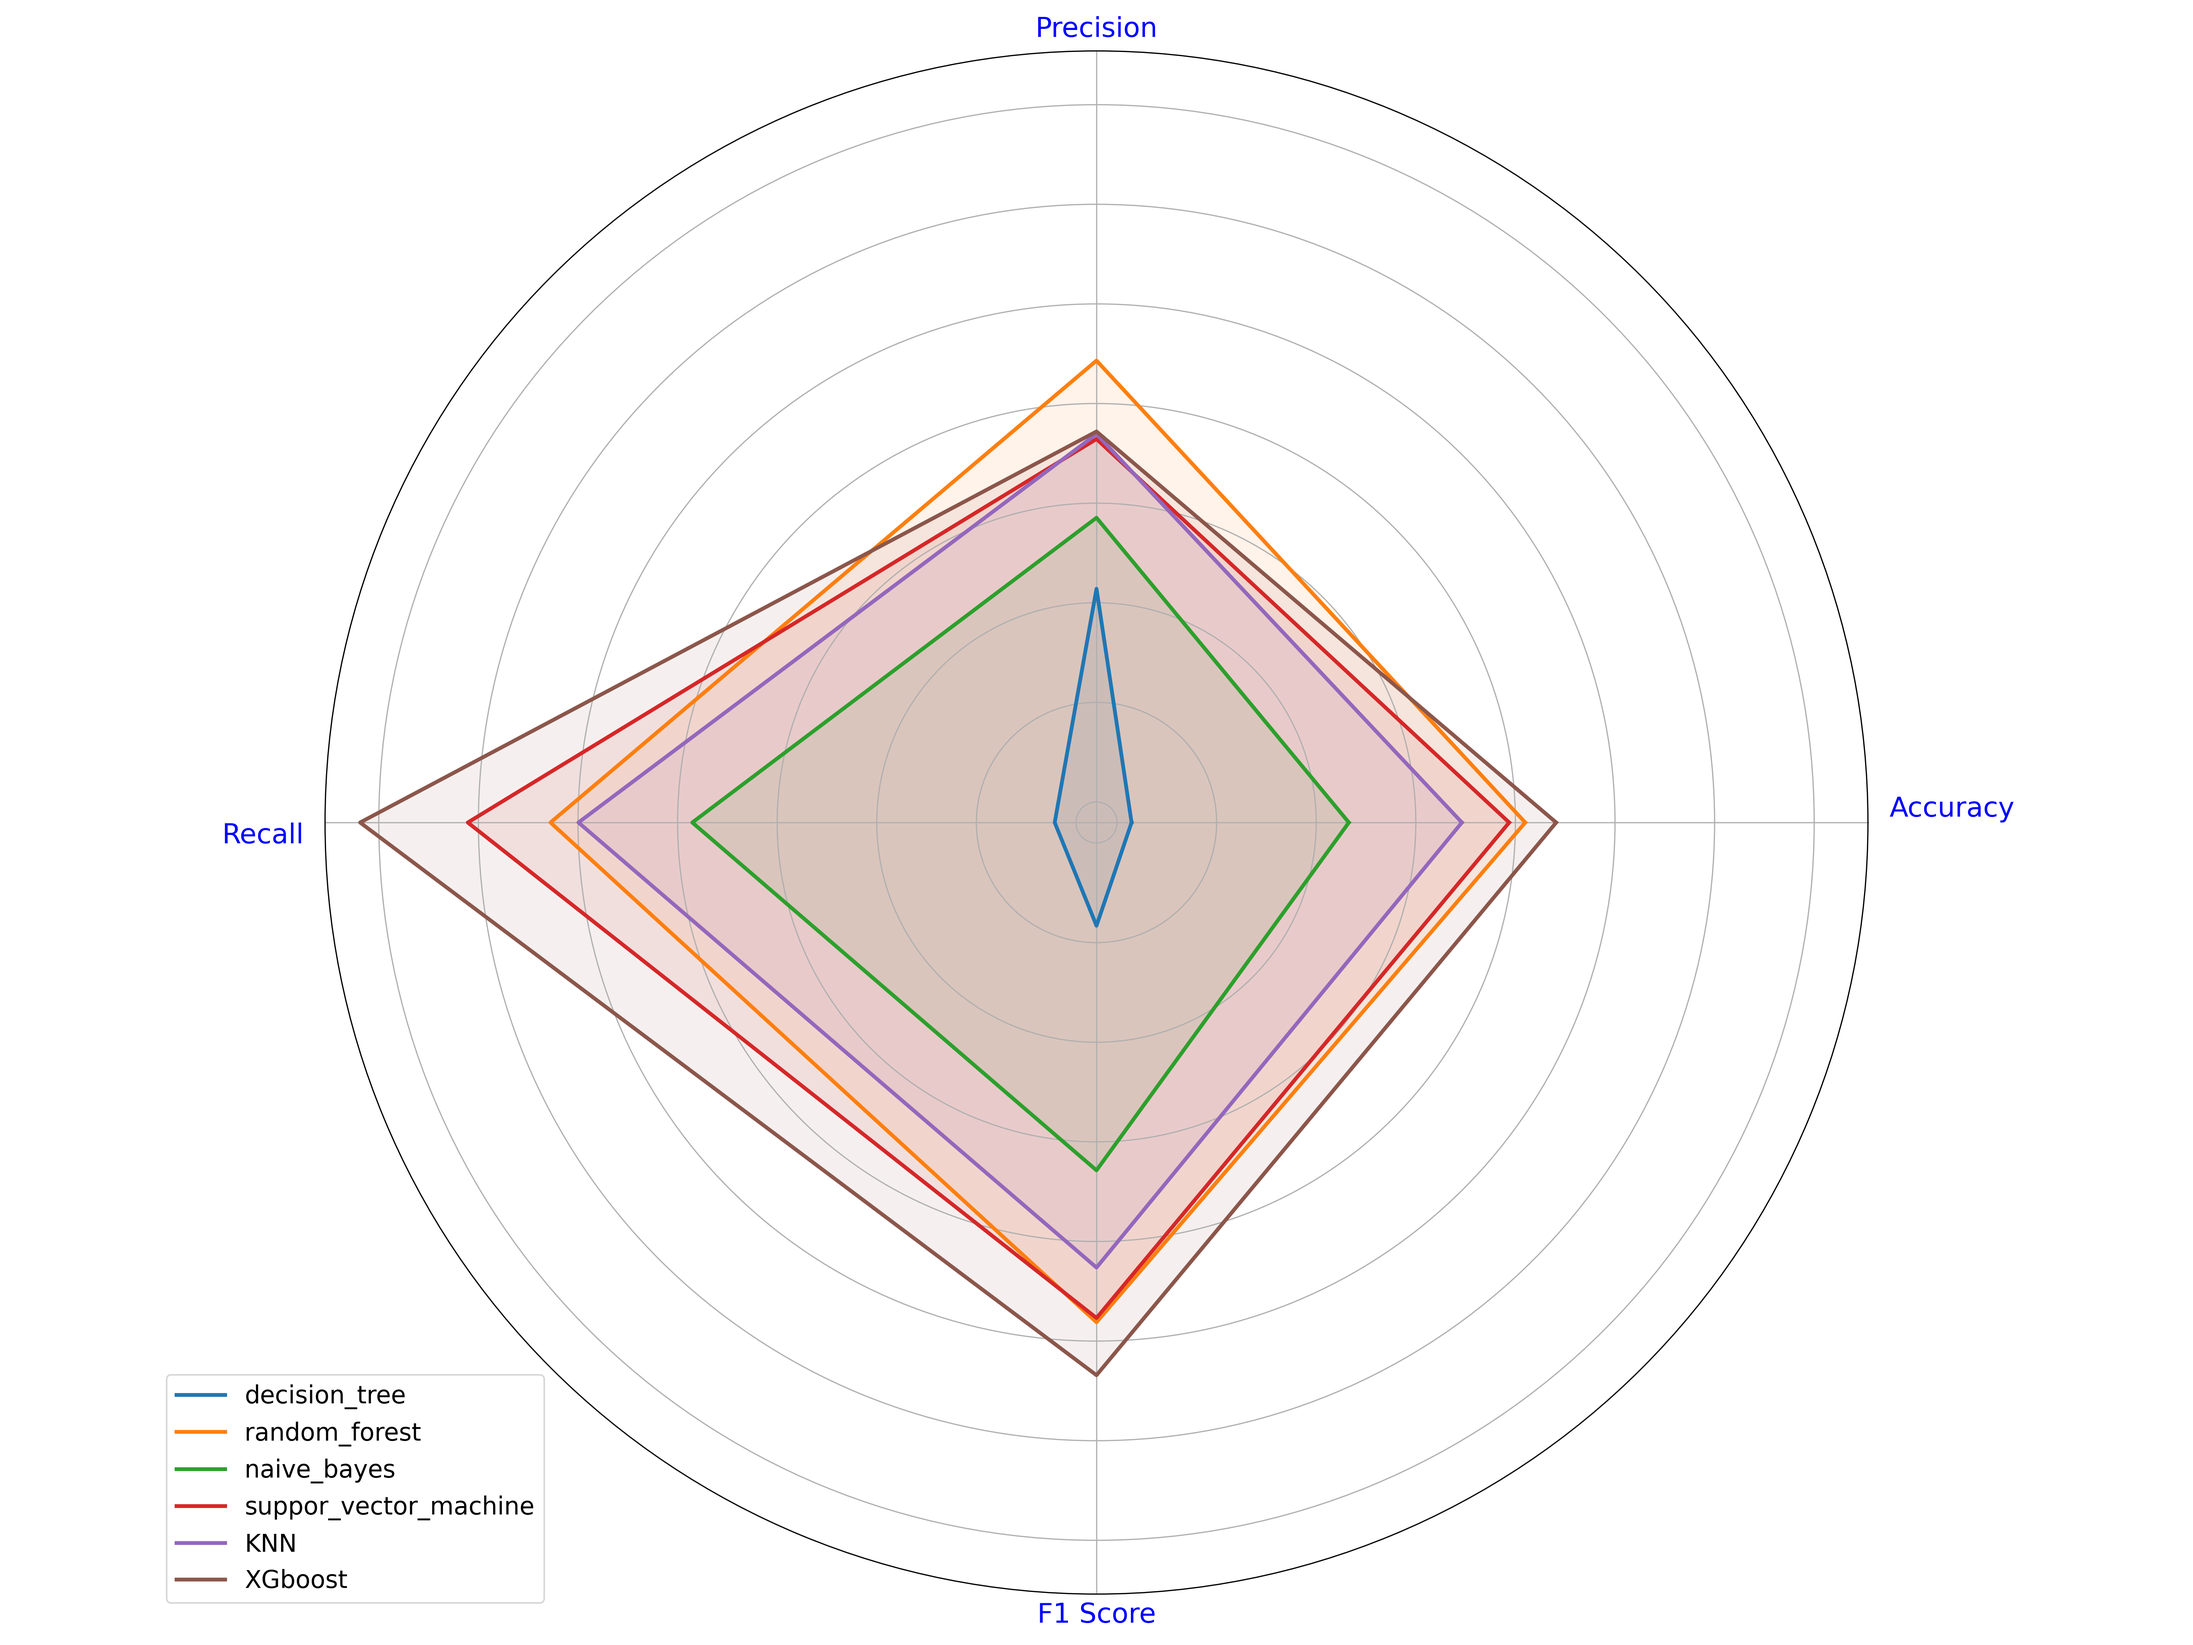
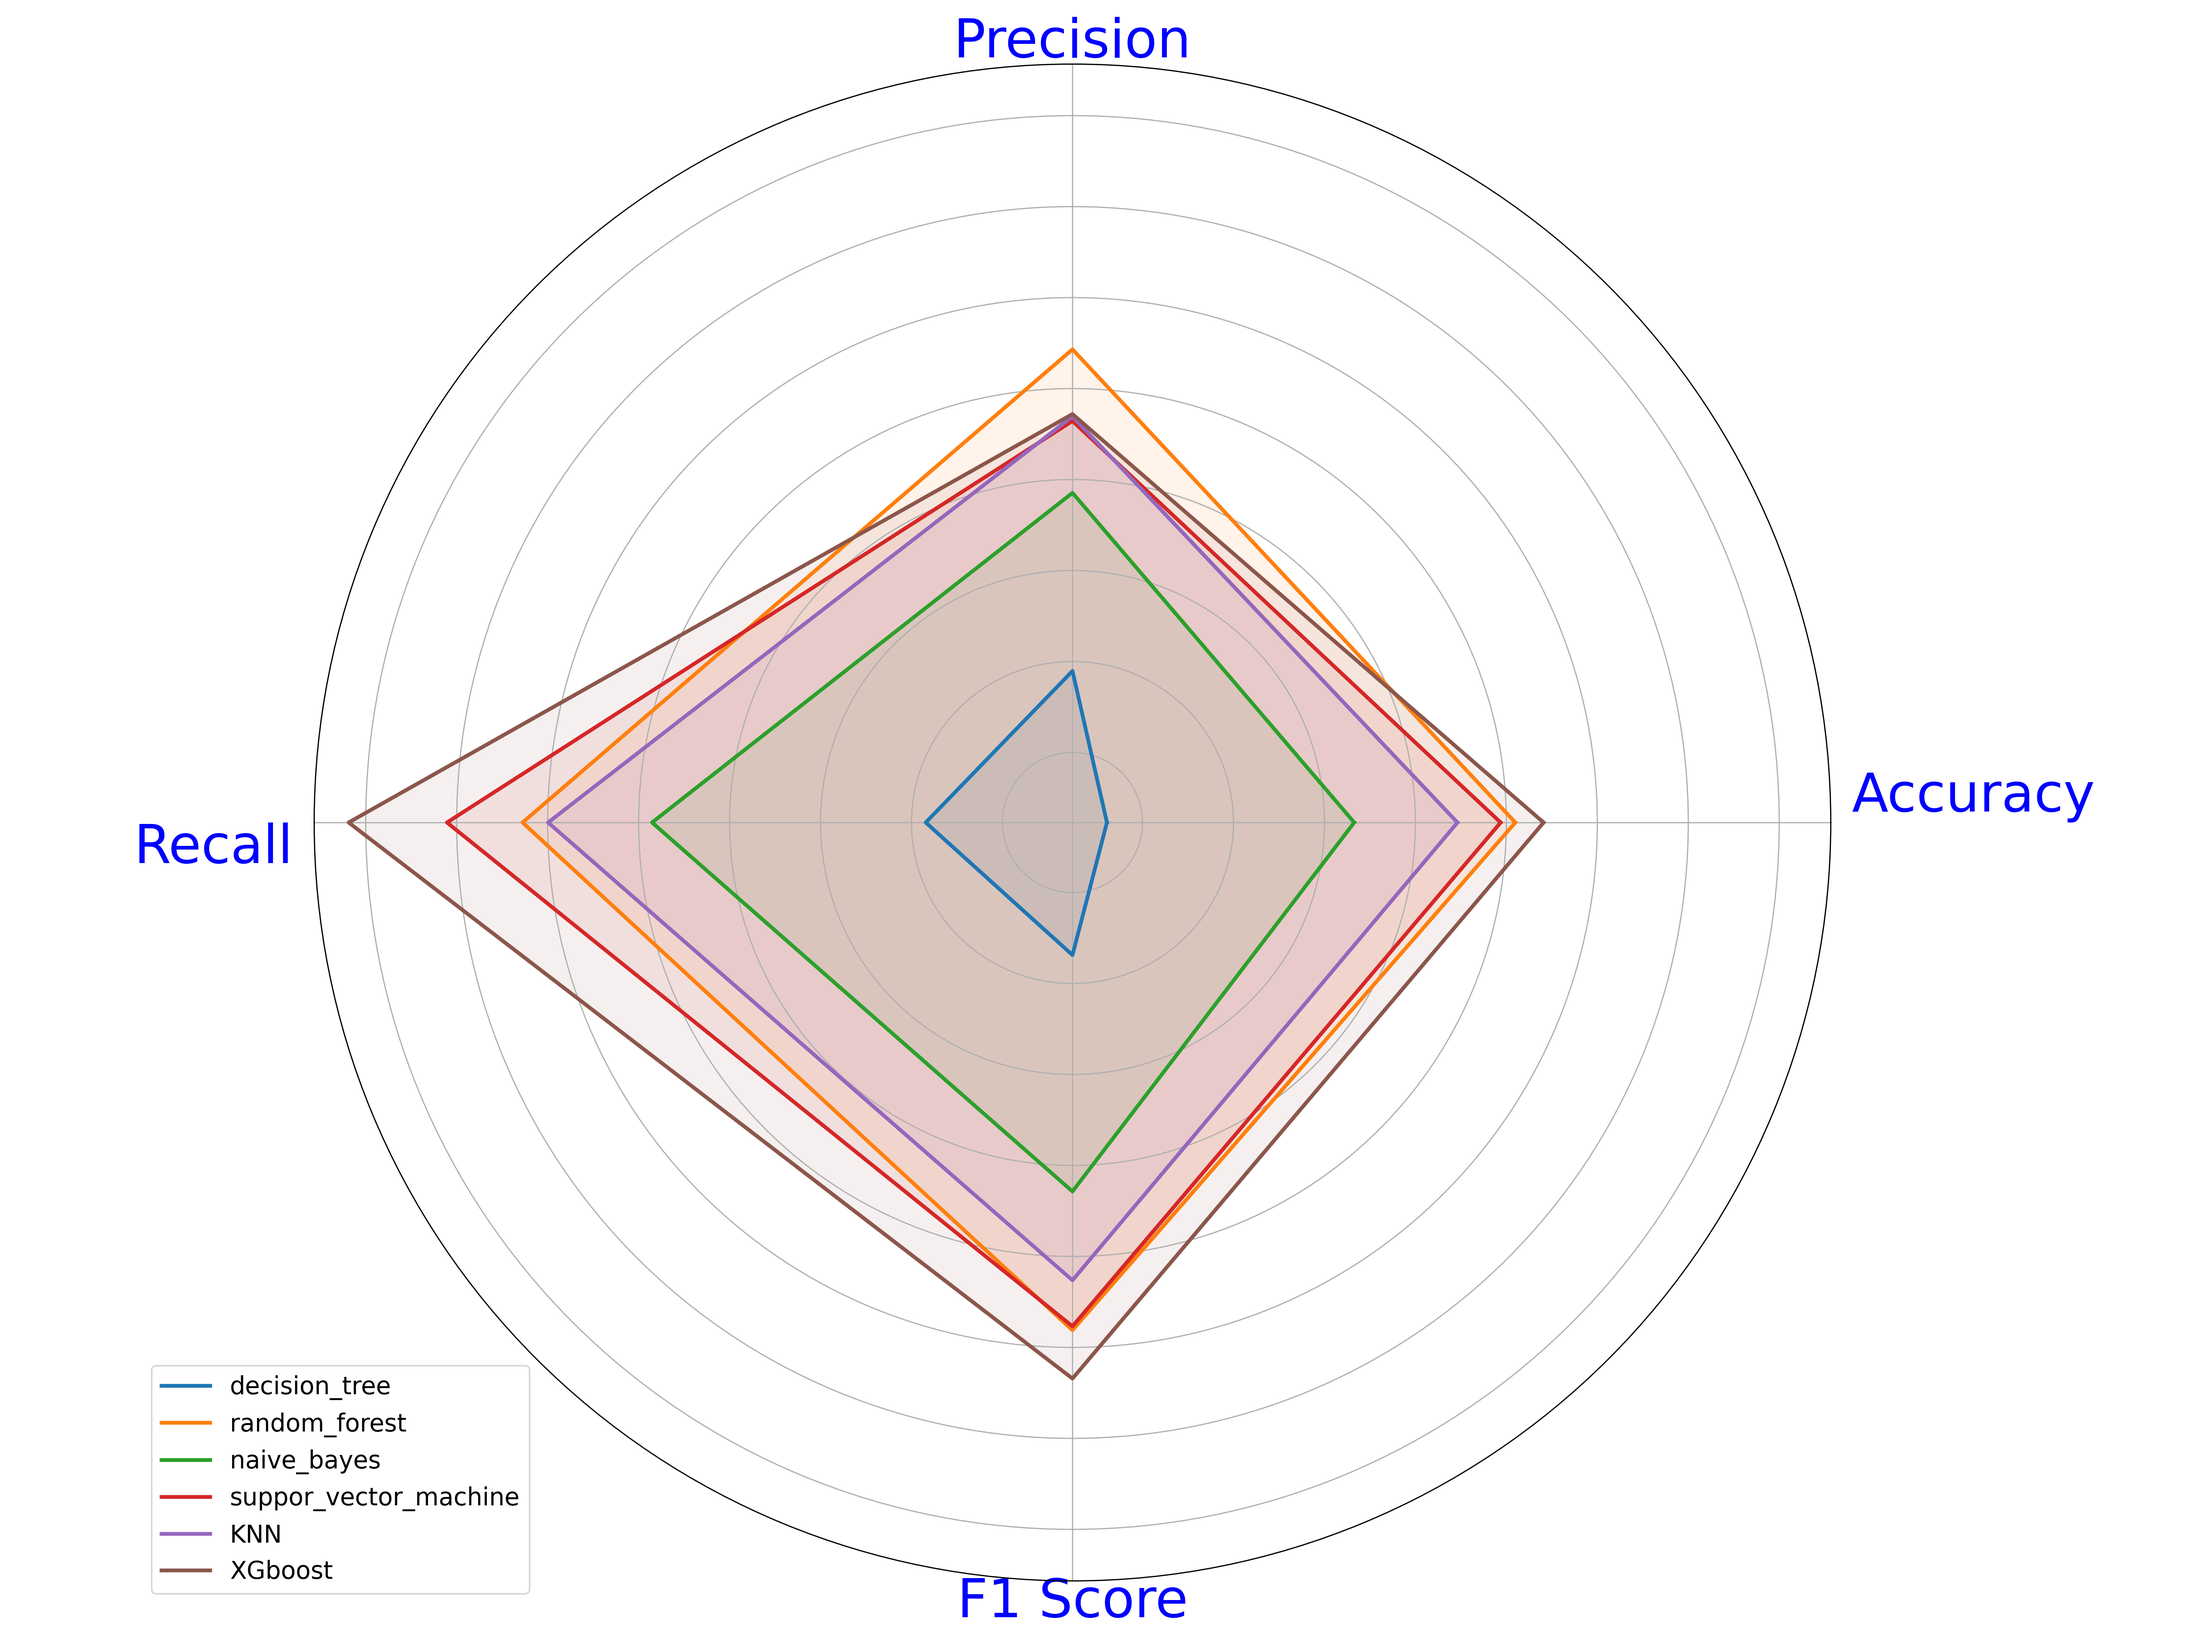
minor changes in images

diff --git a/app/analizer.py b/app/analizer.py
@@ -133,19 +133,21 @@ def benchmarkbar(bench_data):
     barplot = sns.barplot(data=melted_data, x='Metric', y='Score', hue='Model', palette='tab10')
 
     # Mejoras estéticas
-    plt.title('Benchmark', fontsize=16)  # Título del gráfico
-    plt.xlabel('Metric', fontsize=14)  # Etiqueta del eje X
+    plt.title('Benchmark', fontsize=26)  # Título del gráfico
+    #plt.xlabel('Metric', fontsize=14)  # Etiqueta del eje X
     plt.ylabel('Score', fontsize=14)  # Etiqueta del eje Y
     plt.ylim(0.5, 0.95) # Ajustar los límites del eje Y para mejor enfoque
 
     # Ajustar la leyenda
-    plt.legend(title='ML Model', fontsize=12, title_fontsize='13', loc='upper left', bbox_to_anchor=(1, 1))  # Posicionamiento de la leyenda
-
+    plt.legend(title='ML Model', fontsize=15, title_fontsize='13', loc='upper left', bbox_to_anchor=(1, 1))  # Posicionamiento de la leyenda
+    plt.xticks(fontsize=23)
+    plt.yticks(fontsize=13)
+    plt.grid()
     # Ajustar el layout para evitar recortes y superposiciones
     plt.tight_layout()
 
     # Mostrar el gráfico
-    plt.savefig('output/barbench.png', dpi=300)
+    plt.savefig('output/benchmark_bar.png', dpi=300)
 
 
 def benchmark(bench_data):
@@ -155,7 +157,7 @@ def benchmark(bench_data):
     angles = [n/float(N) * 2 * np.pi for n in range(N)]
     angles += angles[:1] 
     fig, ax = plt.subplots(figsize=(20,15), subplot_kw={'polar': True})
-    plt.xticks(angles[:-1],categories, color='b',size=18)
+    plt.xticks(angles[:-1],categories, color='b',size=35)
     ax.set_rlabel_position(270)
 
     for i in range(bench_data.shape[0]):
